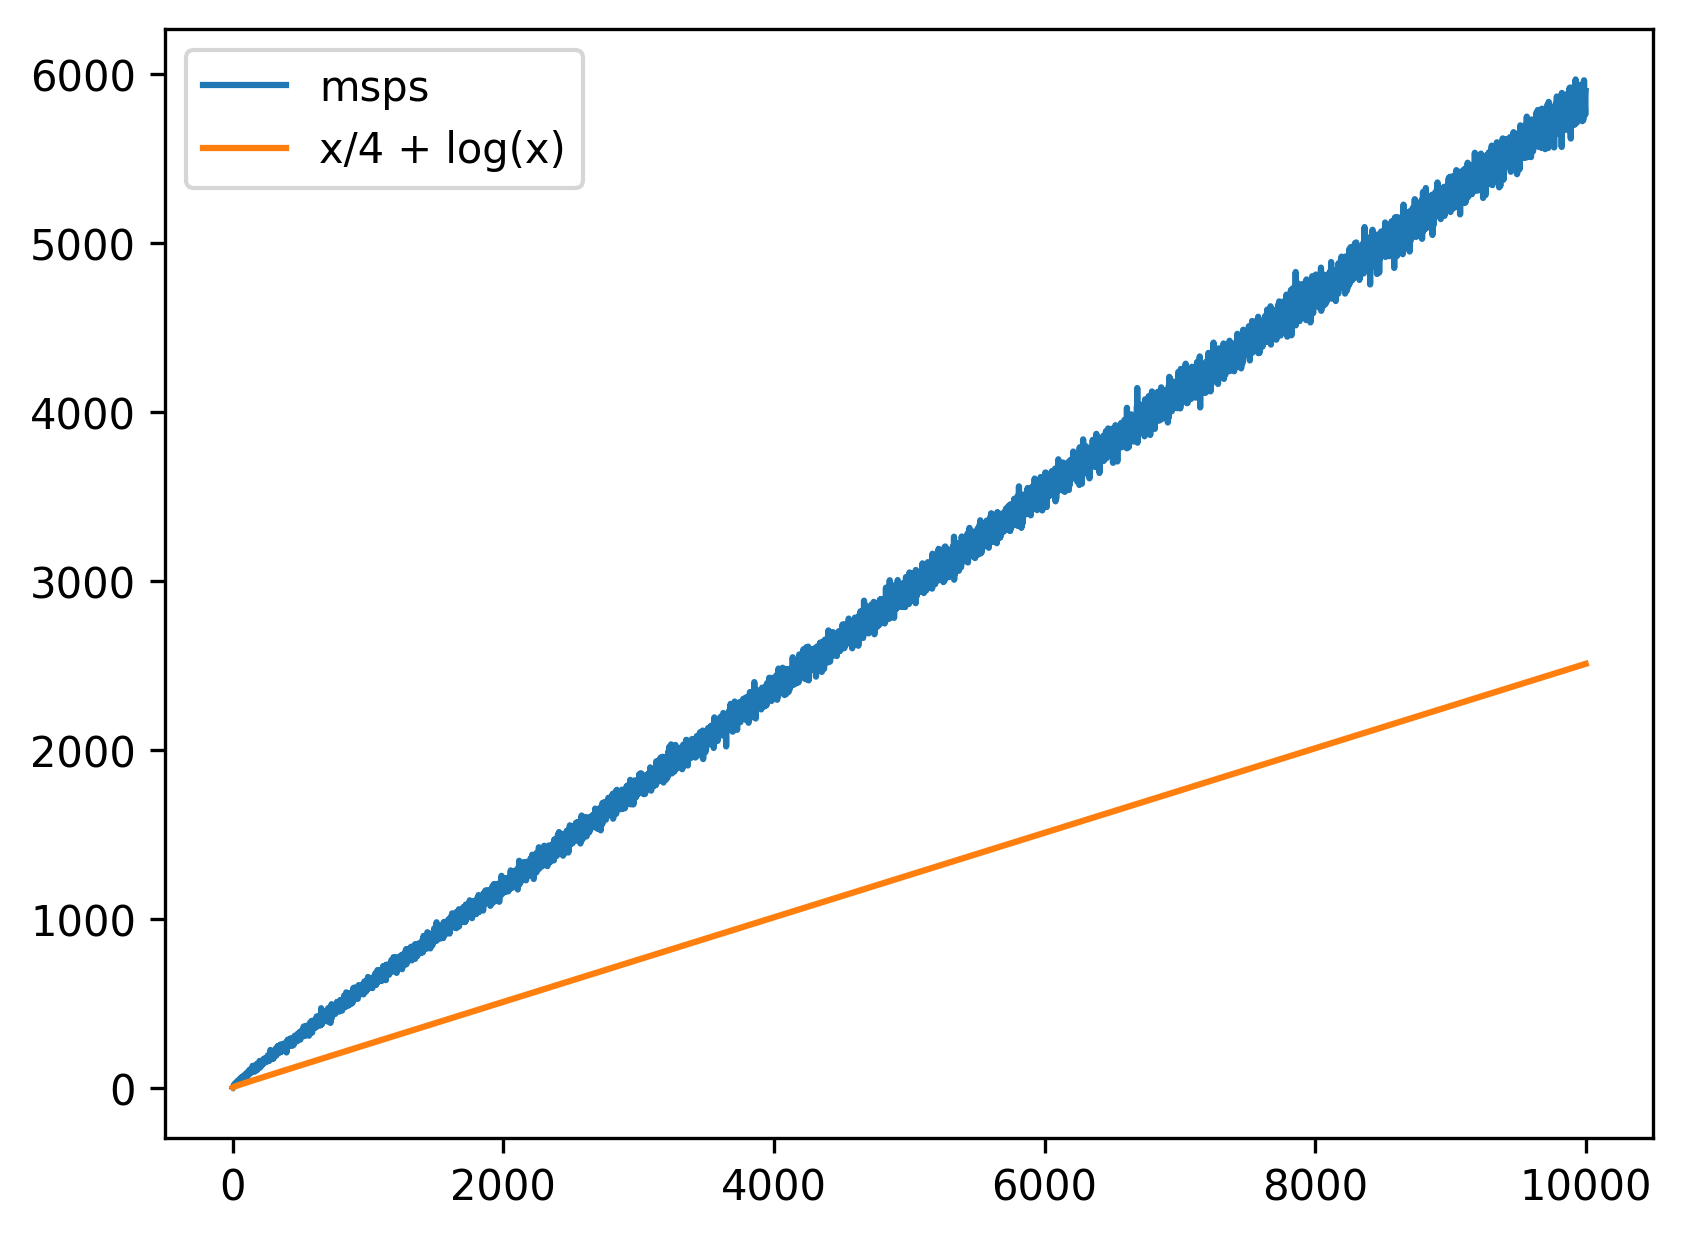
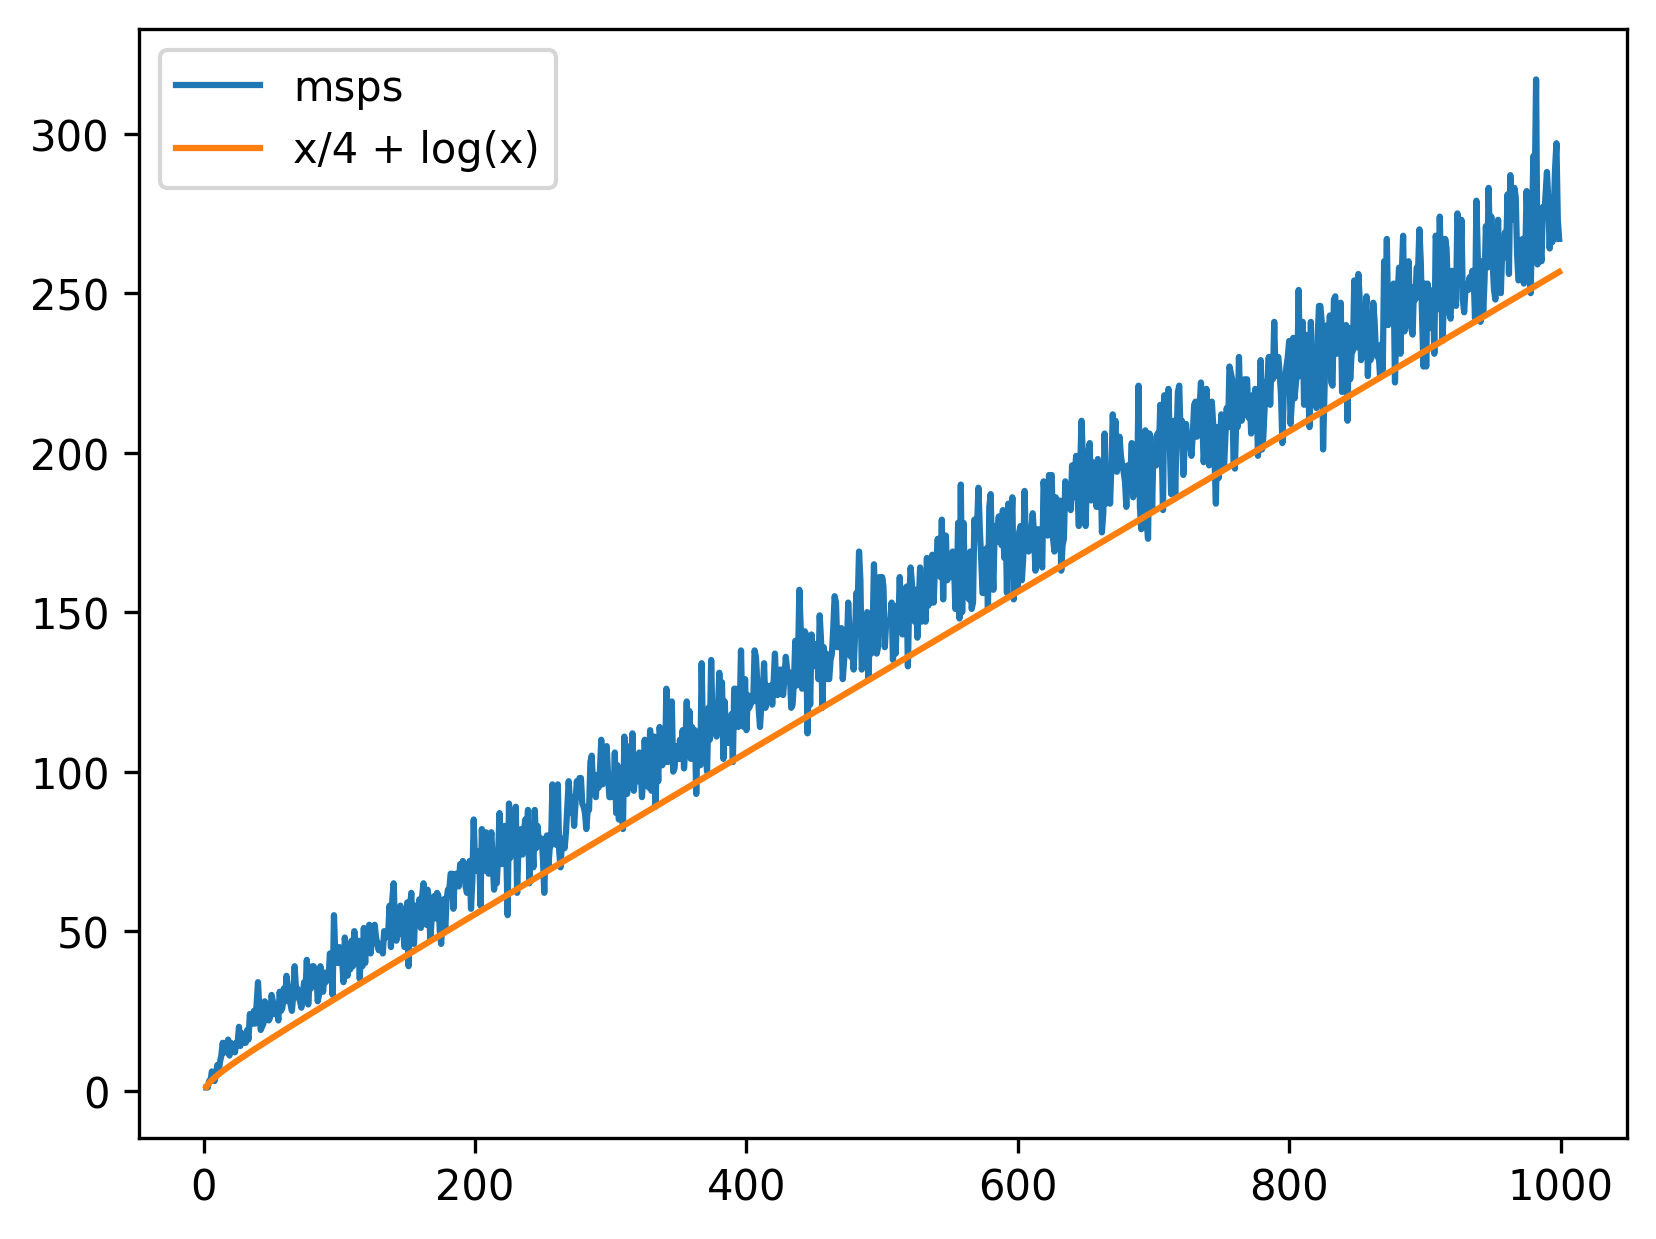
New version of 3/2-MinMax in PI

diff --git a/pw/PredictorsImplementation/src/PyVer/Main.py b/pw/PredictorsImplementation/src/PyVer/Main.py
@@ -48,7 +48,7 @@ def min_max(array, len_array) :
     tbsc_5 = create_tbsc()
 
     minmax = [array[len_array - 1], array[len_array - 1]]
-    for i in range(len_array - 1) :
+    for i in range(0, len_array - 1, 2) :
         if (tbsc_1.evolving_graph(array[i] < array[i + 1])) :
             if (tbsc_2.evolving_graph(array[i] < minmax[0])) :
                 minmax[0] = array[i]
@@ -79,7 +79,7 @@ def complete_array(array, len_array, size) :
 
 
 def main() :
-    size = 10000
+    size = 1000
     naive_cmpt_compars = []
     naive_msps = []
     cmpt_compars = []
